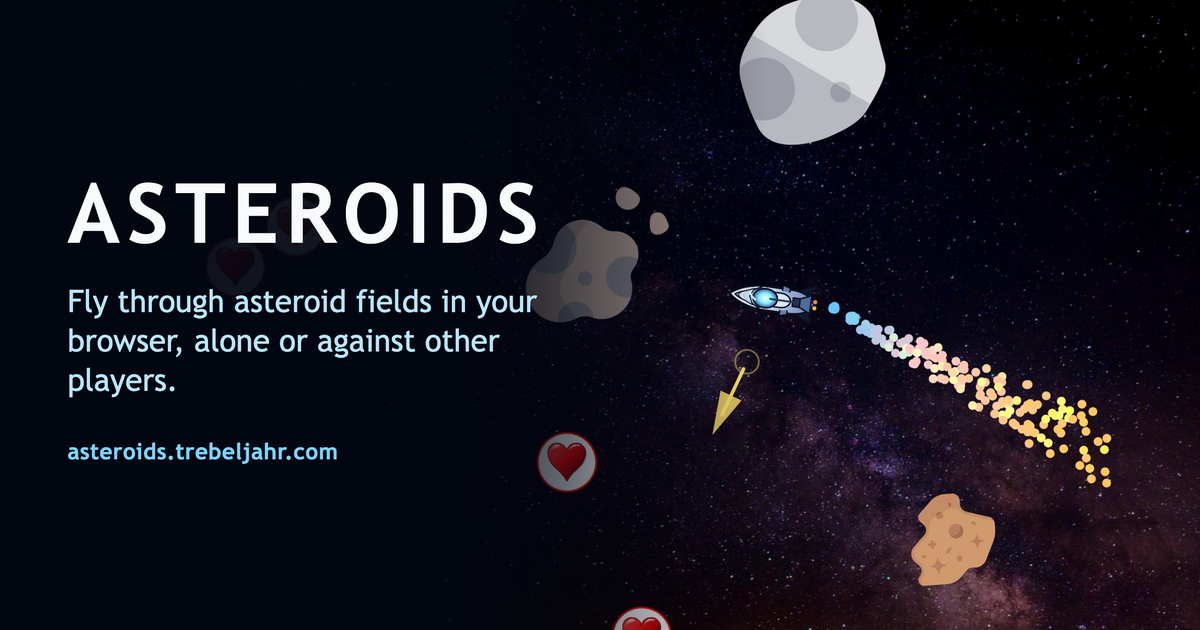
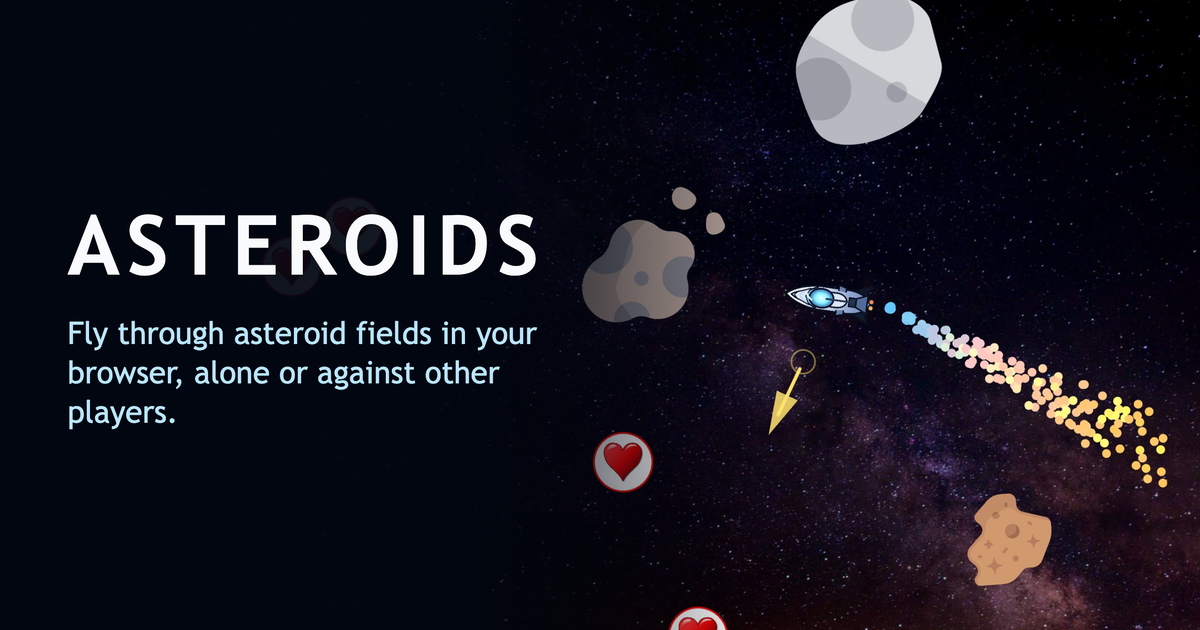
Leave the URL off the og:image wordmark card
Rico prefers link-preview cards without a URL on them; the preview already
shows the link. The name and line re-centre where the text block was.

diff --git a/docs/marketing/README.md b/docs/marketing/README.md
@@ -48,7 +48,7 @@ down to exactly 1200×630 with ImageMagick.
 
 | File | Shows |
 | --- | --- |
-| `social-preview/og-wordmark.png` | Card A with wordmark, line and URL on the darkened left side. |
+| `social-preview/og-wordmark.png` | Card A with wordmark and line on the darkened left side, without the URL. |
 | `social-preview/og-clean.png` | No text: the singleplayer capture reframed so the ship sits right of centre and the HUD falls outside. |
 
 ## Rebuilding
